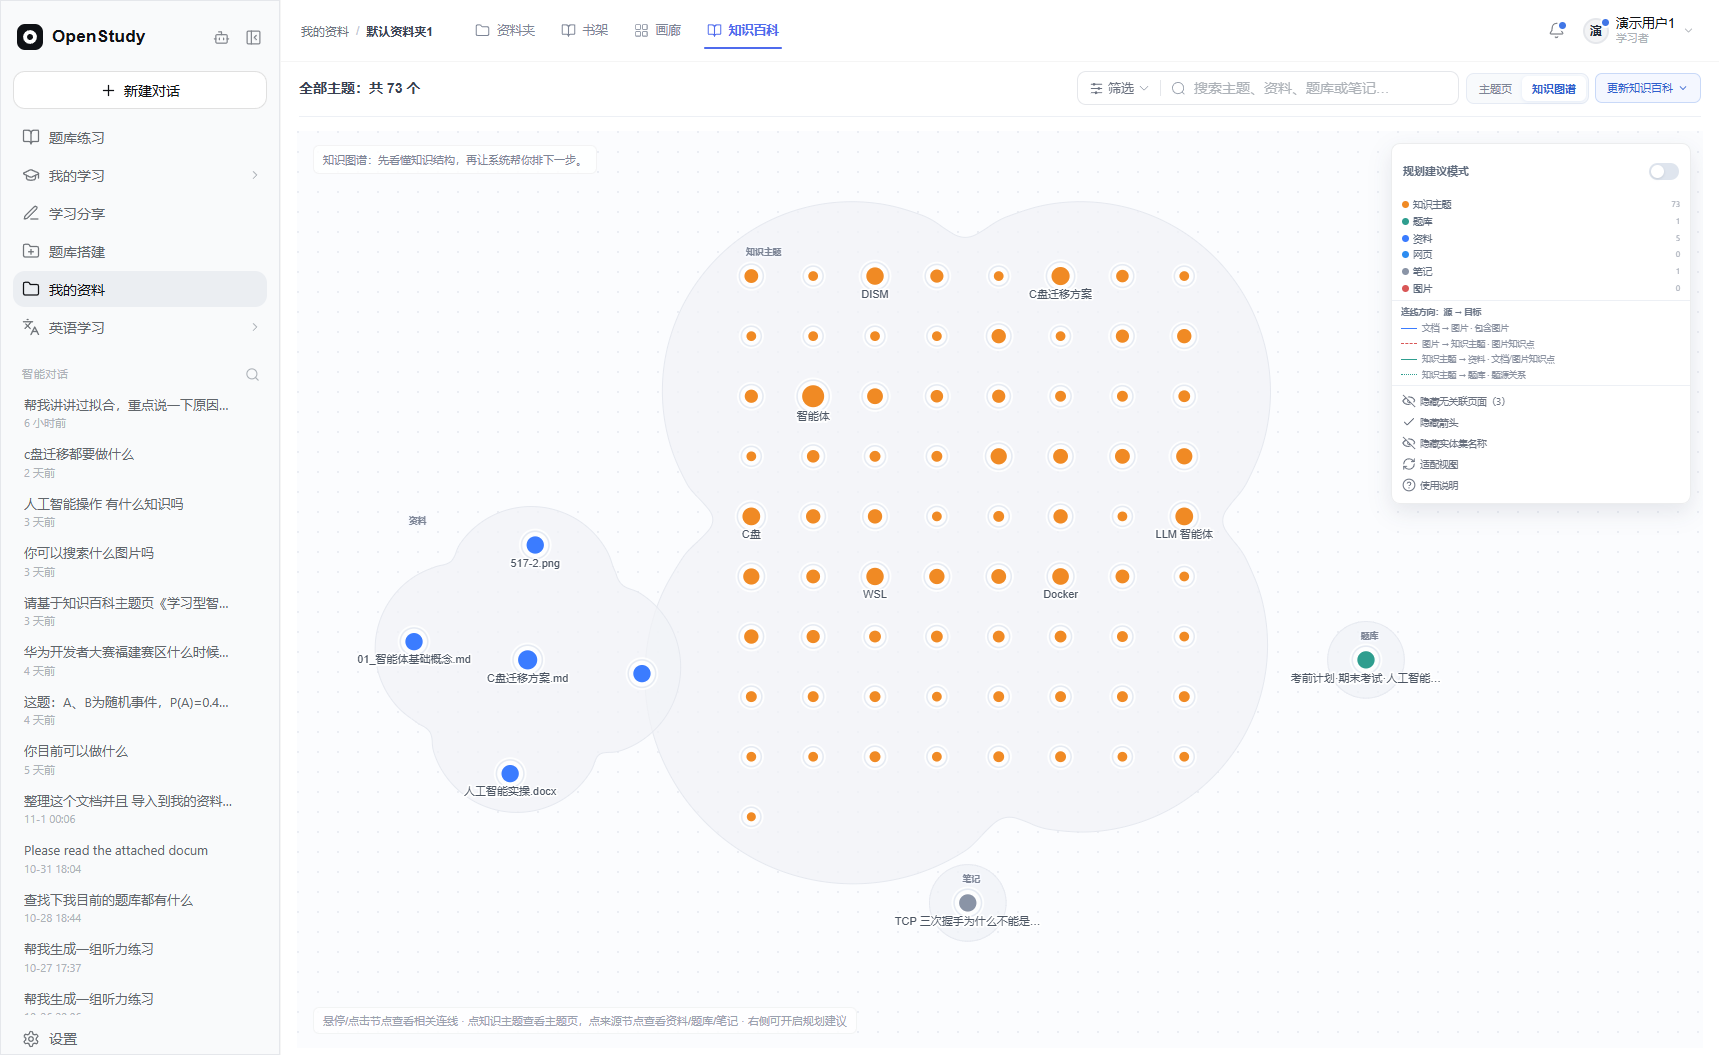
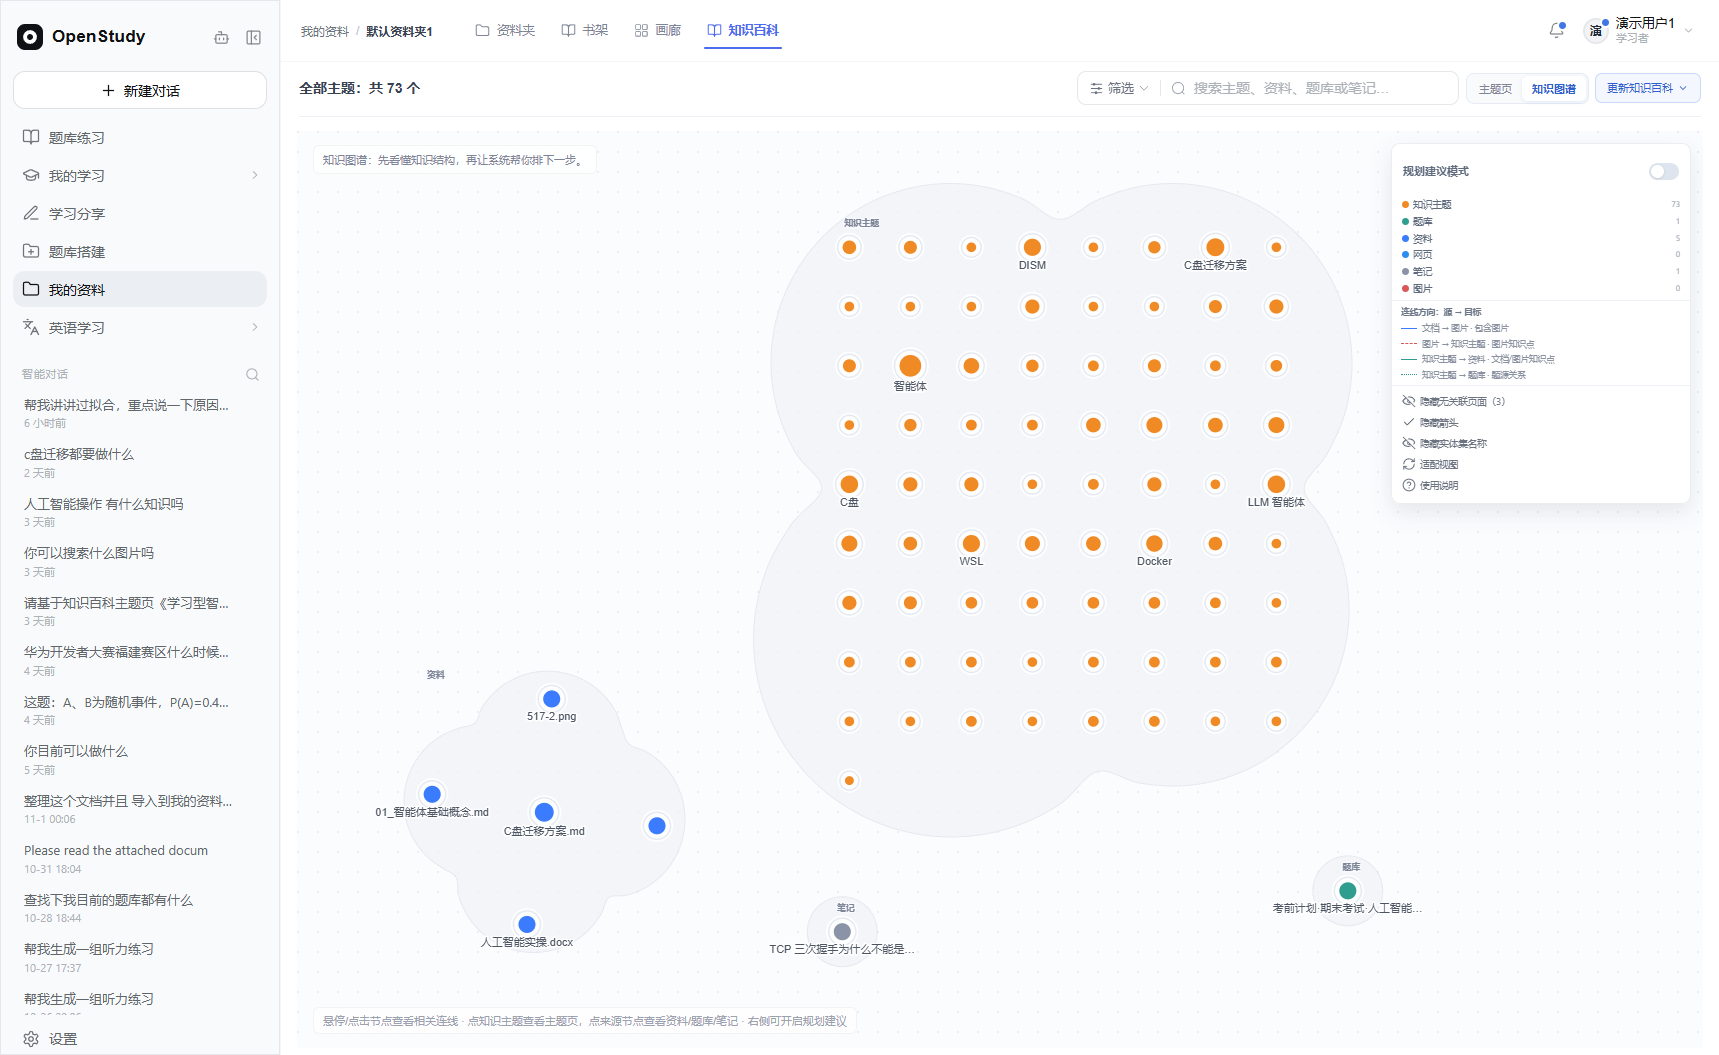
fix: separate graph groups with collision layout

diff --git a/openstudy-vue3-ts/src/views/front/workspace/components/KnowledgeWikiPanel.vue b/openstudy-vue3-ts/src/views/front/workspace/components/KnowledgeWikiPanel.vue
@@ -956,8 +956,10 @@ const mapNodes = computed(() => {
     note: { x: usableWidth * 0.52, y: height * 0.94 },
     image: { x: usableWidth * 0.90, y: height * 0.15 }
   }
-  const result: any[] = []
-  visibleComponents.forEach((component, componentIndex) => {
+  const nodePadding = 28 * Math.min(1.35, layoutScale)
+  // 组间留白是硬间隔，不用“看起来差不多”；窗口小也至少保留 48px。
+  const groupGap = Math.max(96, 120 * layoutScale)
+  const groupLayouts = visibleComponents.map((component, componentIndex) => {
     const collapseImages = component.kind === 'image' && !mapImageExpanded.value && component.ids.length > 8
     const members = collapseImages
       ? [{
@@ -978,10 +980,7 @@ const mapNodes = computed(() => {
       x: 80 + ((componentIndex % 3) + 0.5) * Math.max(1, (usableWidth - 160) / 3),
       y: 80 + (Math.floor(componentIndex / 3) + 0.5) * Math.max(1, (height - 160) / Math.max(1, Math.ceil(visibleComponents.length / 3)))
     }
-    const center = kindCenters[component.kind] || fallbackCenter
-    const radius = (component.kind === 'topic'
-      ? Math.min(260, 72 + Math.sqrt(members.length) * 24)
-      : Math.min(170, 62 + Math.sqrt(members.length) * 22)) * Math.min(1.45, layoutScale)
+    const center = { ...(kindCenters[component.kind] || fallbackCenter) }
     const topicCols = component.kind === 'topic'
       ? Math.max(4, Math.ceil(Math.sqrt(members.length * 0.75)))
       : 0
@@ -990,6 +989,76 @@ const mapNodes = computed(() => {
       ? Math.ceil(Math.sqrt(members.length))
       : 0
     const sourceRows = sourceCols ? Math.ceil(members.length / sourceCols) : 0
+    const orbitRadius = (component.kind === 'topic'
+      ? Math.min(260, 72 + Math.sqrt(members.length) * 24)
+      : Math.min(170, 62 + Math.sqrt(members.length) * 22)) * Math.min(1.45, layoutScale)
+    const maxNodeRadius = component.kind === 'topic' ? 14 : 16
+    let halfWidth = maxNodeRadius + nodePadding
+    let halfHeight = maxNodeRadius + nodePadding
+    if (component.kind === 'topic' && topicCols) {
+      halfWidth = ((topicCols - 1) / 2) * topicSpacingX + maxNodeRadius + nodePadding
+      halfHeight = ((topicRows - 1) / 2) * topicSpacingY + maxNodeRadius + nodePadding
+    } else if (sourceCols) {
+      const sourceSpacing = 40 * layoutScale
+      halfWidth = ((sourceCols - 1) / 2) * sourceSpacing + maxNodeRadius + nodePadding
+      halfHeight = ((sourceRows - 1) / 2) * sourceSpacing + maxNodeRadius + nodePadding
+    } else if (members.length > 1) {
+      halfWidth = orbitRadius + maxNodeRadius + nodePadding
+      halfHeight = halfWidth
+    }
+    return {
+      component,
+      members,
+      hub,
+      center,
+      topicCols,
+      topicRows,
+      sourceCols,
+      sourceRows,
+      orbitRadius,
+      radius: Math.max(halfWidth, halfHeight)
+    }
+  })
+  // 组间分离：把每个实体集当成有半径的圆，用简单迭代把重叠的组推开。
+  // 这是实际几何计算，不再依赖某一组固定坐标，窗口变大/变小时组与组之间始终保留 gap。
+  for (let pass = 0; pass < 90; pass += 1) {
+    for (let i = 0; i < groupLayouts.length; i += 1) {
+      const a = groupLayouts[i]!
+      for (let j = i + 1; j < groupLayouts.length; j += 1) {
+        const b = groupLayouts[j]!
+        let dx = b.center.x - a.center.x
+        let dy = b.center.y - a.center.y
+        let distance = Math.hypot(dx, dy)
+        const minimum = a.radius + b.radius + groupGap
+        if (distance >= minimum) continue
+        if (distance < 0.01) {
+          dx = 1
+          dy = 0
+          distance = 1
+        }
+        const push = (minimum - distance) / 2
+        const ux = dx / distance
+        const uy = dy / distance
+        a.center.x -= ux * push
+        a.center.y -= uy * push
+        b.center.x += ux * push
+        b.center.y += uy * push
+      }
+    }
+    for (const layout of groupLayouts) {
+      layout.center.x = Math.min(
+        Math.max(layout.radius + 18, usableWidth - layout.radius - 18),
+        Math.max(layout.radius + 18, layout.center.x)
+      )
+      layout.center.y = Math.min(
+        Math.max(layout.radius + 18, height - layout.radius - 18),
+        Math.max(layout.radius + 18, layout.center.y)
+      )
+    }
+  }
+  const result: any[] = []
+  groupLayouts.forEach((layout) => {
+    const { component, members, hub, center, topicCols, topicRows, sourceCols, sourceRows, orbitRadius } = layout
     const orbit = members.filter((node) => node !== hub)
     const hubOnCenter = members.length > 1
     let orbitIndex = 0
@@ -1006,19 +1075,23 @@ const mapNodes = computed(() => {
       } else if (sourceCols) {
         const col = memberIndex % sourceCols
         const row = Math.floor(memberIndex / sourceCols)
-        const sourceSpacing = 34 * layoutScale
+        const sourceSpacing = 40 * layoutScale
         x = center.x + (col - (sourceCols - 1) / 2) * sourceSpacing
         y = center.y + (row - (sourceRows - 1) / 2) * sourceSpacing
       } else if (members.length > 1 && !(hubOnCenter && node === hub)) {
         const count = orbit.length
         const angle = -Math.PI / 2 + (Math.PI * 2 * orbitIndex) / Math.max(1, count)
         const jitter = Math.sin((Number(node.id) || orbitIndex + 1) * 12.9898) * 0.16
-        x = center.x + Math.cos(angle + jitter) * radius
-        y = center.y + Math.sin(angle + jitter) * radius
+        x = center.x + Math.cos(angle + jitter) * orbitRadius
+        y = center.y + Math.sin(angle + jitter) * orbitRadius
         orbitIndex += 1
       }
       const offset = mapNodeOffsets[String(node.id)]
-      const simulated = mapSimPositions[String(node.id)]
+      // 多实体集使用稳定的分区布局，禁止复用单组阶段产生的旧力导向坐标。
+      // 否则首次渲染和二次刷新时序不同，会把几组节点一起吸到旧坐标里。
+      const simulated = mapComponents.value.components.length < 2
+        ? mapSimPositions[String(node.id)]
+        : undefined
       const kind = normalizeEntityKind(node.kind || node.pageType)
       const offsetX = Number(offset?.x)
       const offsetY = Number(offset?.y)
@@ -1039,6 +1112,12 @@ const mapNodes = computed(() => {
   })
   return result
 })
+
+watch(
+  () => mapGraph.value,
+  () => resetMapNodeOffsets(),
+  { deep: false }
+)
 
 const mapEdges = computed(() => {
   // 首屏不画线：只有悬停/选中某个节点，或处于学习路线时才显示相关连线。
@@ -1986,7 +2065,7 @@ const mapHulls = computed(() => {
       label: component.label,
       labelX: minX - 6,
       labelY: minY - 24,
-      path: clusterOutline(points, 28 * Math.min(1.35, mapLayoutScale.value))
+      path: clusterOutline(points, 18 * Math.min(1.35, mapLayoutScale.value))
     })
   }
   return hulls

diff --git a/doc/planning/知识图谱图片-文档-知识点关系-实施记录.md b/doc/planning/知识图谱图片-文档-知识点关系-实施记录.md
@@ -18,7 +18,9 @@
 - 知识百科「按来源更新」下拉现在能识别独立图片资产（`assetId`）；
 - 点击任意主题/题库/资料/网页/笔记/图片节点后，规划建议抽屉立即进入「生成中」，不再先显示历史记录；
 - 规划建议支持以 `topic:` / `bank:` / `doc:` / `web:` / `note:` / `image:` 节点作为 seed；
-- 知识图谱首屏默认不渲染关系线，只有悬停/选中节点时才显示该节点的相邻关系，避免 100+ 节点资料夹初始加载几百条 SVG 线导致卡顿。
+- 知识图谱首屏默认不渲染关系线，只有悬停/选中节点时才显示该节点的相邻关系，避免 100+ 节点资料夹初始加载几百条 SVG 线导致卡顿；
+- 实体集布局使用组半径 + 迭代分离算法，组与组之间保留硬间隔，不再依赖固定坐标；
+- 多组图谱禁用单组阶段残留的力导向坐标，连续刷新 3 次节点位置一致，避免“第一次正常、第二次叠在一起”。
 
 ### 1.2 图片命名
 
@@ -110,6 +112,7 @@
 - `doc/screenshots/121-kb604-doc-images-hidden.png`
 - `doc/screenshots/122-kb604-initial-no-edges.png`
 - `doc/screenshots/123-kb604-layout-1719.png`
+- `doc/screenshots/125-kb604-layout-1393.png`
 - `doc/screenshots/117-graph-spacing.png`
 - `doc/screenshots/118-graph-zoom-labels.png`
 
